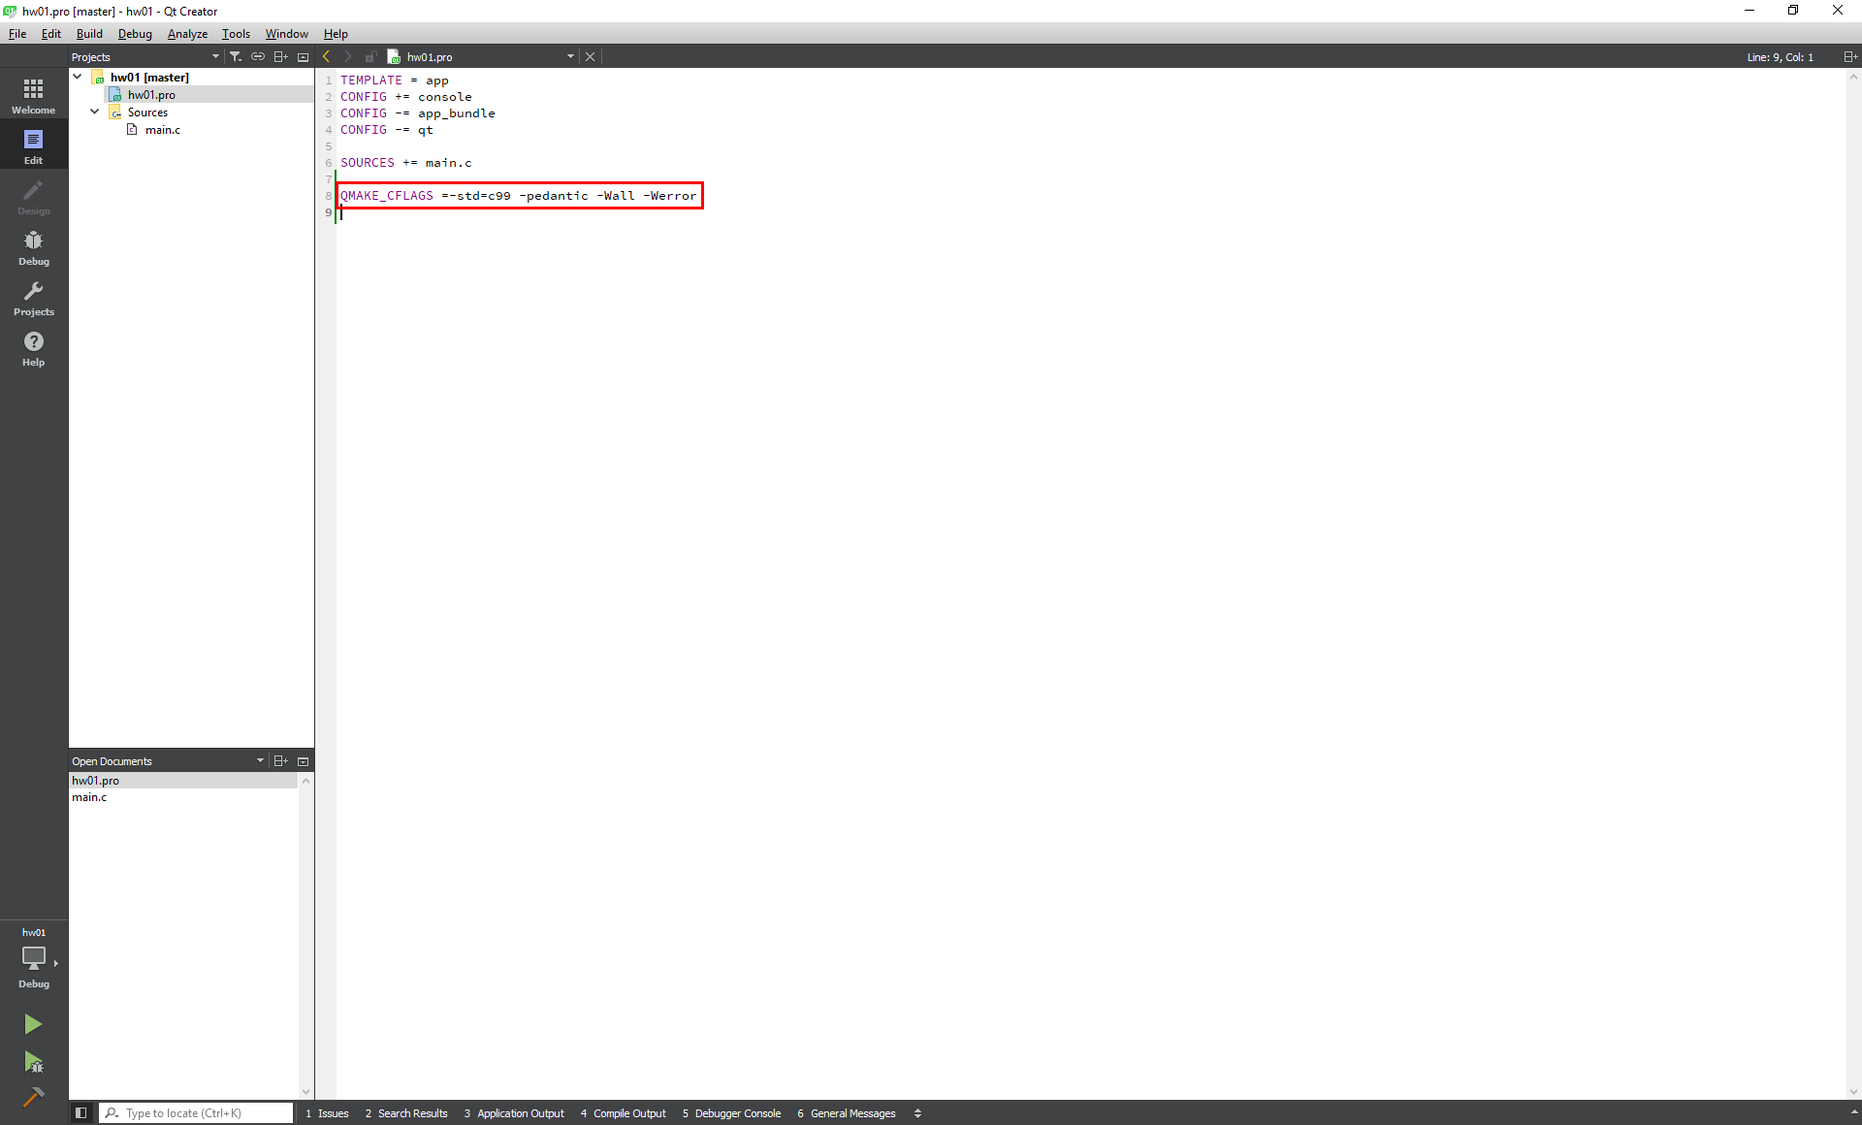
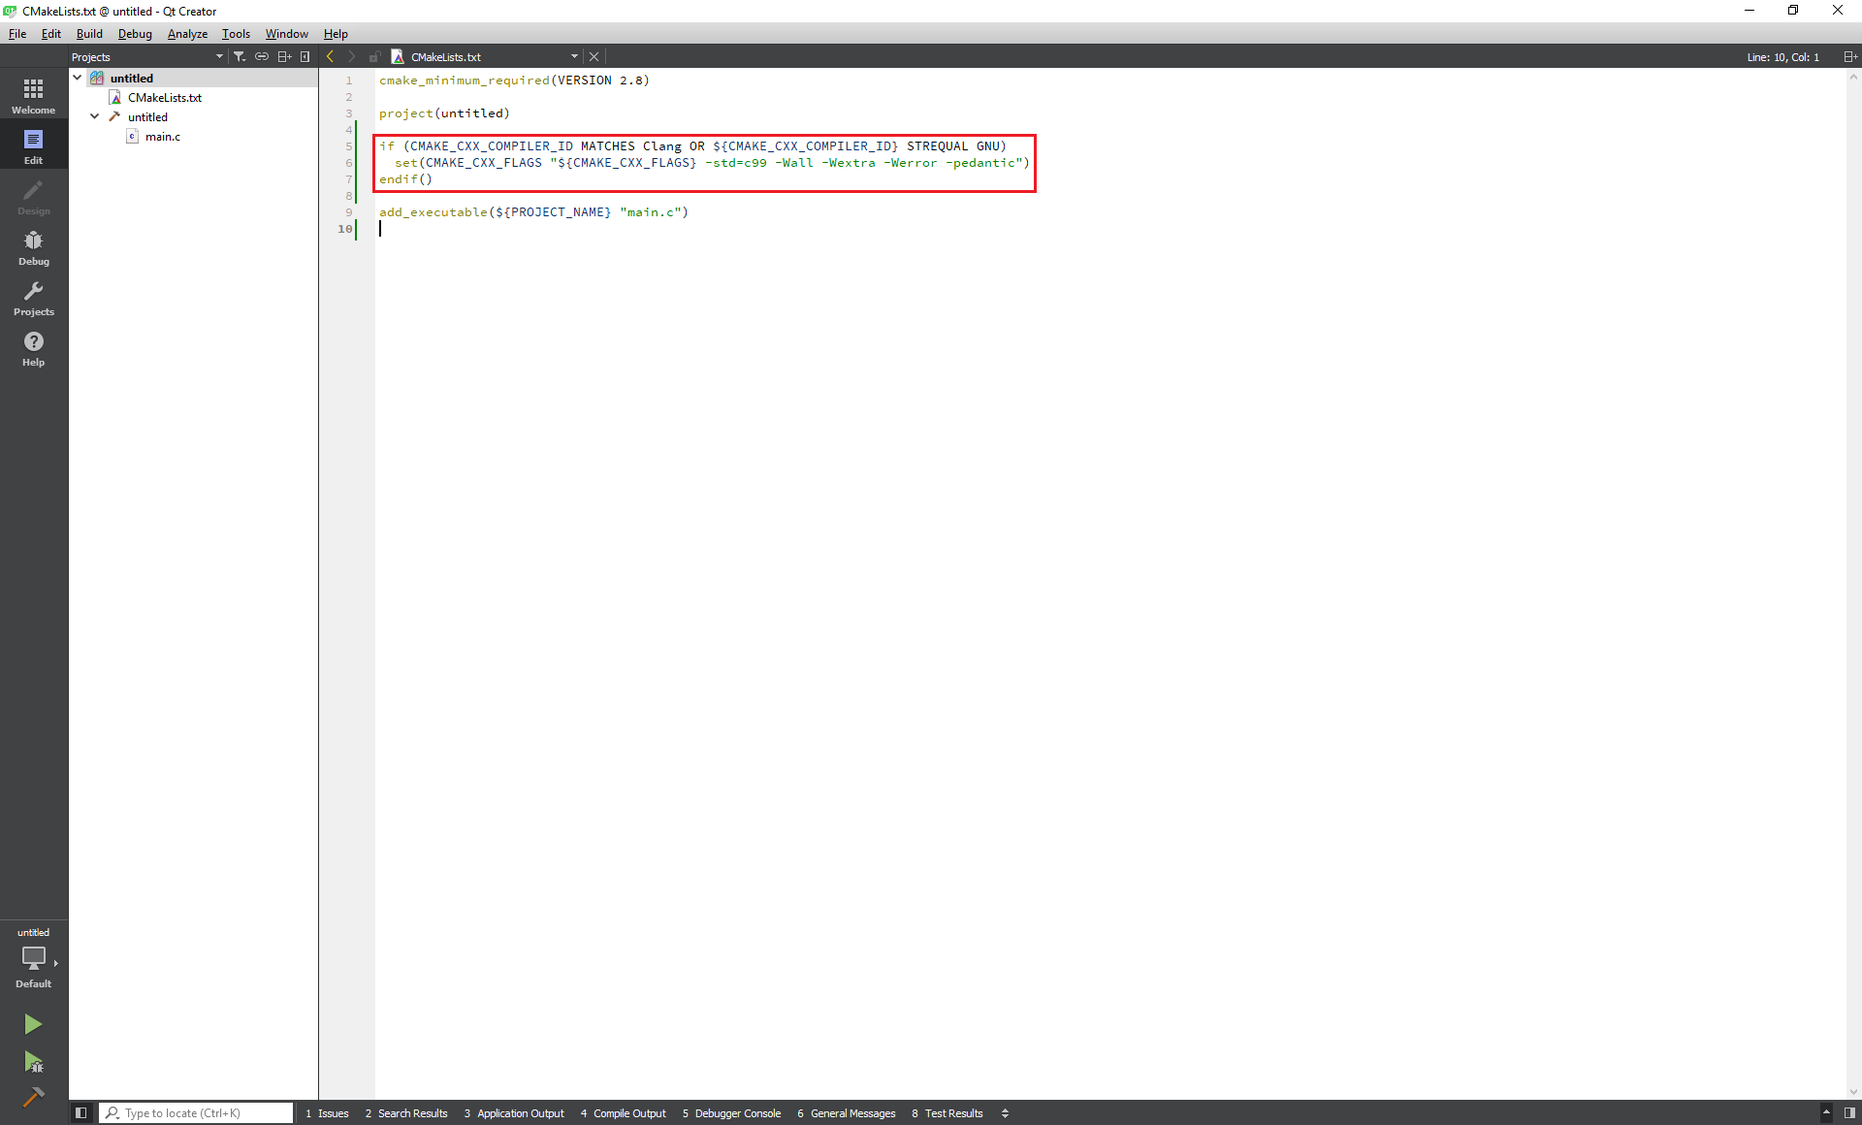
fix some bugs

diff --git a/index.md b/index.md
@@ -10,10 +10,10 @@ Tieto tutoriály slúžia na to, aby ste si vedeli nastaviť a používať vývo
 
 Pre Windows je hneď niekoľko vecí navyše. V prvom rade sa jedná o simuláciu linuxového prostredia. Linux je vo väčšine učební, používa ho väčšina cvičiacich a Kontr, nástroj na kontrolu úloh, beží takisto na linuxe. Z tohoto dôvodu je užitočné mať k dispozícii linuxový sýstém, ale aby ste si ho nemuseli inštalovať na svoj počítač a nemuseli behať na fakultu, ponúkame dve alternatívy:
 
-1. [Virtuálny stroj](/virtual-machine/README.md) - pripravený spustiteľný linux so všetkými nástrojmi. Stačí keď ho spustíte a nemusíte nič inštalovať
-2. [Ubuntu on Windows](/ubuntu-on-windows/README.md) - ak máte Windows 10 v 64 bitovej verzii, môžete aktivovať túto funkcionalitu, ktorá Vám dodá konzolovú verziu Ubuntu. Potom môžete postupovať v tutoriáloch linuxovou vetvou. Nevýhoda je, že máte k dispozícii len command line\(t.j žiadny Qt Creator a pod.\). Výhodou voči virtuálnemu stroju je omnoho vyššia rýchlosť a prístup k dátam Windowsu.
+1. [Virtuálny stroj](/virtual-machine/index.md) - pripravený spustiteľný linux so všetkými nástrojmi. Stačí keď ho spustíte a nemusíte nič inštalovať
+2. [Ubuntu on Windows](/ubuntu-on-windows/index.md) - ak máte Windows 10 v 64 bitovej verzii, môžete aktivovať túto funkcionalitu, ktorá Vám dodá konzolovú verziu Ubuntu. Potom môžete postupovať v tutoriáloch linuxovou vetvou. Nevýhoda je, že máte k dispozícii len command line\(t.j žiadny Qt Creator a pod.\). Výhodou voči virtuálnemu stroju je omnoho vyššia rýchlosť a prístup k dátam Windowsu.
 
-### [Visual Studio 2015](../visual-studio-2015/README.md)
+### [Visual Studio 2015](../visual-studio-2015/index.md)
 
 Pre tých, ktorí preferujú natívne vývojové prostredie na Windowse od Microsoftu, je pripravený tutoriál aj na Visual Studio. Popísane je, ako dosiahnuť rovnakú kontrolu kódom, akú robí Kontr. Pozor, musíte si však vytvárať vlastné projekty, nakoľko dodaný je len cmake!
 
@@ -23,7 +23,7 @@ Pre tých, ktorí preferujú natívne vývojové prostredie na Windowse od Micro
 
 Inštalačný systém, vďaka ktorému môžete ľahšie nainštalovať niekoľko vývojarských nástrojov.
 
-### [Xcode](/xcode/README.md)
+### [Xcode](/xcode/index.md)
 
 Pokiaľ nechcete používať Qt Creator, je k dispozícii návod na natívne vývojové prostredie pre macOS, vyvíjané Applom.
 
@@ -31,20 +31,20 @@ Pokiaľ nechcete používať Qt Creator, je k dispozícii návod na natívne vý
 
 ## Základné
 
-* [Git](git/README.md)
+* [Git](git/index.md)
   * [Inštalácia](git/installation.md)
     * [Windows](git/installation-windows.md)
     * [Linux](git/installation-linux.md)
     * [Mac OS X](git/installation-macosx.md)
   * [Začiatok semestra](git/beginning-of-semester.md)
   * [Úloha hello](git/hello.md)
-* [CMake](cmake/README.md)
+* [CMake](cmake/index.md)
   * [Inštalácia](cmake/installation.md)
     * [Windows](cmake/installation-windows.md)
     * [Linux](cmake/installation-linux.md)
     * [macOS](cmake/installation-macos.md)
   * [Použitie](cmake/use.md)
-* [Qt Creator](qt-creator/README.md)
+* [Qt Creator](qt-creator/index.md)
   * [Inštalácia](qt-creator/installation.md)
     * [Windows](qt-creator/installation-windows.md)
     * [Linux](qt-creator/installation-linux.md)
@@ -52,44 +52,44 @@ Pokiaľ nechcete používať Qt Creator, je k dispozícii návod na natívne vý
   * [Vytvorenie nového projektu](qt-creator/create.md)
   * [Kompilácia](qt-creator/compilation.md)
   * [Debugging](qt-creator/debug.md)
-* [Valgrind a Dr. Memory](memory-leaks/README.md)
+* [Valgrind a Dr. Memory](memory-leaks/index.md)
   * [Windows a Dr. Memory](memory-leaks/windows_drmemory.md)
   * [Linux a Valgrind](memory-leaks/linux_valgrind.md)
   * [macOS a Dr. Memory](memory-leaks/macos_drmemory.md)
   * [macOS a Valgrind](memory-leaks/mac-osx-valgrind.md)
   * [Valgrind - použitie](memory-leaks/valgrind-pouzitie.md)
-* [Doxygen](doxygen/README.md)
+* [Doxygen](doxygen/index.md)
   * [Inštalácia](doxygen/installation.md)
     * [Windows](doxygen/installation-windows.md)
     * [Linux](doxygen/installation-linux.md)
     * [macOS](doxygen/installation-mac.md)
   * [Písanie dokumentácie](doxygen/document.md)
   * [Generovanie dokumentácie](doxygen/generate.md)
-* [AISA a Kontr](ssh/README.md)
+* [AISA a Kontr](ssh/index.md)
   * [Windows](ssh/windows.md)
   * [Linux & macOS](ssh/linux.md)
 
 ## Doplňujúce
 
 * [Homebrew for macOS](qt-creator/homebrew-osx.md)
-* [Visual Studio 2015](visual-studio-2015/README.md)
+* [Visual Studio 2015](visual-studio-2015/index.md)
   * [Inštalácia](visual-studio-2015/installation.md)
   * [Vytvorenie nového projektu](visual-studio-2015/create.md)
   * [Spustenie projektu](visual-studio-2015/run.md)
   * [Debugging](visual-studio-2015/debugging.md)
   * [Git](visual-studio-2015/git.md)
   * [Dr. Memory](visual-studio-2015/dr.-memory.md)
-* [Xcode](xcode/README.md)
+* [Xcode](xcode/index.md)
   * [Inštalácia](xcode/installation.md)
   * [Spustenie projektu](xcode/run.md)
   * [Nastavenie kompilačných parametrov](xcode/compilation.md)
   * [Pridanie súborov do projektu](xcode/create.md)
   * [Vytvorenie projektu z cmake](xcode/vytvorenie-projektu-z-cmake.md)
-* [Ubuntu on Windows](ubuntu-on-windows/README.md)
+* [Ubuntu on Windows](ubuntu-on-windows/index.md)
   * [Inštalácia](ubuntu-on-windows/installation.md)
   * [Kompilačné nástroje](ubuntu-on-windows/kompilacne-nastroje.md)
   * [AISA](ubuntu-on-windows/aisa.md)
-* [Virtuálny stroj](virtual-machine/README.md)
+* [Virtuálny stroj](virtual-machine/index.md)
 
 
 

diff --git a/SUMMARY.md b/SUMMARY.md
@@ -2,24 +2,24 @@
 
 ## Návody PB071
 
-* [Úvod](README.md)
+* [Úvod](index.md)
 
 ## Základné
 
-* [Git](git/README.md)
+* [Git](git/index.md)
   * [Inštalácia](git/installation.md)
     * [Windows](git/installation-windows.md)
     * [Linux](git/installation-linux.md)
     * [macOS](git/installation-macosx.md)
   * [Začiatok semestra](git/beginning-of-semester.md)
   * [Úloha hello](git/hello.md)
-* [CMake](cmake/README.md)
+* [CMake](cmake/index.md)
   * [Inštalácia](cmake/installation.md)
     * [Windows](cmake/installation-windows.md)
     * [Linux](cmake/installation-linux.md)
     * [macOS](cmake/installation-macos.md)
   * [Použitie](cmake/use.md)
-* [Qt Creator](qt-creator/README.md)
+* [Qt Creator](qt-creator/index.md)
   * [Inštalácia](qt-creator/installation.md)
     * [Windows](qt-creator/installation-windows.md)
     * [Linux](qt-creator/installation-linux.md)
@@ -27,42 +27,42 @@
   * [Vytvorenie nového projektu](qt-creator/create.md)
   * [Kompilácia](qt-creator/compilation.md)
   * [Debugging](qt-creator/debug.md)
-* [Valgrind a Dr. Memory](memory-leaks/README.md)
+* [Valgrind a Dr. Memory](memory-leaks/index.md)
   * [Windows a Dr. Memory](memory-leaks/windows_drmemory.md)
   * [Linux a Valgrind](memory-leaks/linux_valgrind.md)
   * [macOS a Dr. Memory](memory-leaks/macos_drmemory.md)
   * [macOS a Valgrind](memory-leaks/mac-osx-valgrind.md)
   * [Valgrind - použitie](memory-leaks/valgrind-pouzitie.md)
-* [Doxygen](doxygen/README.md)
+* [Doxygen](doxygen/index.md)
   * [Inštalácia](doxygen/installation.md)
     * [Windows](doxygen/installation-windows.md)
     * [Linux](doxygen/installation-linux.md)
     * [macOS](doxygen/installation-mac.md)
   * [Písanie dokumentácie](doxygen/document.md)
   * [Generovanie dokumentácie](doxygen/generate.md)
-* [AISA a Kontr](ssh/README.md)
+* [AISA a Kontr](ssh/index.md)
   * [Windows](ssh/windows.md)
   * [Linux & macOS](ssh/linux.md)
 
 ## Doplňujúce
 
 * [Homebrew for macOS](qt-creator/homebrew-osx.md)
-* [Visual Studio 2017](visual-studio-2015/README.md)
+* [Visual Studio 2017](visual-studio-2015/index.md)
   * [Inštalácia](visual-studio-2015/installation.md)
   * [Otvorenie projektu](visual-studio-2015/create.md)
   * [Spustenie projektu](visual-studio-2015/run.md)
   * [Debugging](visual-studio-2015/debugging.md)
   * [Git](visual-studio-2015/git.md)
   * [Dr. Memory](visual-studio-2015/dr.-memory.md)
-* [Xcode](xcode/README.md)
+* [Xcode](xcode/index.md)
   * [Inštalácia](xcode/installation.md)
   * [Spustenie projektu](xcode/run.md)
   * [Nastavenie kompilačných parametrov](xcode/compilation.md)
   * [Pridanie súborov do projektu](xcode/create.md)
   * [Vytvorenie projektu z cmake](xcode/vytvorenie-projektu-z-cmake.md)
-* [Ubuntu on Windows](ubuntu-on-windows/README.md)
+* [Ubuntu on Windows](ubuntu-on-windows/index.md)
   * [Inštalácia](ubuntu-on-windows/installation.md)
   * [Kompilačné nástroje](ubuntu-on-windows/kompilacne-nastroje.md)
   * [AISA](ubuntu-on-windows/aisa.md)
-* [Virtuálny stroj](virtual-machine/README.md)
+* [Virtuálny stroj](virtual-machine/index.md)
 

diff --git a/qt-creator/installation-linux.md b/qt-creator/installation-linux.md
@@ -1,28 +1,28 @@
 # Inštalácia Qt na Linux {#intro}
 
-Inštalácia na Linuxe je závislá na konkrétnej distribúcii a kedže distribúcií je nespočetne mnoho, konkrétne postupy tu budú uvedené len pre najnovšie verzie najpopulárnejších linuxových distribúcií. Pokiaľ máte názvy balíkov pre svoju distribúciu a chcete ju zdieľať s ostatnými kolegiňami/kolegami, pridajte ju do komentárov a bude pridaná do tohoto návodu.
+Inštalácia na Linuxe je závislá na konkrétnej distribúcii a kedže distribúcií je nespočetne mnoho, konkrétne postupy tu budú uvedené len pre najnovšie verzie najpopulárnejších linuxových distribúcií. Pokiaľ máte názvy balíkov pre svoju distribúciu a chcete ju zdieľať s ostatnými kolegiňami/kolegami, pridajte ju do fóra a bude pridaná do tohoto návodu.
 
 # Ukážkové distribúcie {#distributions}
 
 V tejto časti sú uvedené príkazy inštalujúce všetky potrebné nástroje pre jednotlivé distribúcie.
 
-## Ubuntu 16.10
+## Ubuntu 16.04 - 17.10
 
 ```
-sudo apt install make gcc g++ gdb qt5-default qtcreator
+sudo apt install make gcc g++ gdb qt5-default qtcreator cmake
 ```
 
 ## Fedora 25
 
 ```
-sudo dnf install make gcc g++ gdb qt5*-devel qt-creator
+sudo dnf install make gcc g++ gdb qt5*-devel qt-creator cmake
 ```
 
 # Všeobecný postup - inštalátor {#installer}
 
 V prípade, že nepoužívate žiadnu z vyššie uvedených distribúcií, je priložený aj všeobecný návod pre každú distribúciu.
 
-Základne balíky **make, gcc, gdb** na kompiláciu musíte nainštalovať z balíčkovacieho správcu Vašej distribúcie - väčšinou sa tieto balíky volajú presne podľa názvov programov.
+Základne balíky **make, gcc, gdb, CMake** na kompiláciu musíte nainštalovať z balíčkovacieho správcu Vašej distribúcie - väčšinou sa tieto balíky volajú presne podľa názvov programov.
 
 **Qt Creator** je možné nainštalovať pomocou inštalátora:
 
@@ -43,7 +43,7 @@ Základne balíky **make, gcc, gdb** na kompiláciu musíte nainštalovať z bal
   
   ![](../images/qt-creator/linux_install_01.png)
   
-5. Z komponentov potrebujete Qt 5.8 → **Desktop gcc 64-bit/32-bit**
+5. Z komponentov potrebujete Qt 5.10.1 → **Desktop gcc 64-bit/32-bit**
   
   ![](../images/qt-creator/linux_install_03.png)
 

diff --git a/qt-creator/index.md b/qt-creator/index.md
@@ -1,6 +1,6 @@
 # Qt Creator {#intro}
 
-Qt Creator je jednoduché prívetivé IDE vhodné pre ľudí začínajúcich s C/C++. Z tohoto dôvodu bolo zvolené ako odporúčané v tomto predmete. Pokiaľ ste nikdy neprogramovali v C a/alebo máte málo skúseností s používaním IDE programov, je pre Vás vysoko odporúčané používať Qt Creator podľa tohto tutoriálu. V prípade, že máte už skúsenosti alebo chcete radšej používať IDE špecifické pre Vašu platformu, začnite tutoriálom pre [Visual Studio 2017](../visual-studio-2015/README.md) na platforme Windows alebo [Xcode](../xcode/README.md) pre macOS.
+Qt Creator je jednoduché prívetivé IDE vhodné pre ľudí začínajúcich s C/C++. Z tohoto dôvodu bolo zvolené ako odporúčané v tomto predmete. Pokiaľ ste nikdy neprogramovali v C a/alebo máte málo skúseností s používaním IDE programov, je pre Vás vysoko odporúčané používať Qt Creator podľa tohto tutoriálu. V prípade, že máte už skúsenosti alebo chcete radšej používať IDE špecifické pre Vašu platformu, začnite tutoriálom pre [Visual Studio 2017](../visual-studio-2015/index.md) na platforme Windows alebo [Xcode](../xcode/index.md) pre macOS.
 
 Rozcestník:
 
@@ -8,6 +8,7 @@ Rozcestník:
   * [Windows](../qt-creator/installation-windows.md)
   * [Linux](../qt-creator/installation-linux.md)
   * [macOS](../qt-creator/installation-macosx.md)
+* [Import projektu](../qt-creator/import.md)
 * [Vytvorenie nového projektu](../qt-creator/create.md)
 * [Kompilácia projektu](../qt-creator/compilation.md)
 * [Debugging projektu](../qt-creator/debug.md)

diff --git a/git/baisics.md b/git/baisics.md
@@ -91,11 +91,11 @@ git clone "https://gitlab.fi.muni.cz/kde/repozitar.git"
 # s SSH klíčem
 git clone "git@gitlab.fi.muni.cz:kde/repozitar.git"
 ```
-Tím vznikne adresář repozitar. Zkuste v něm vytvořit soubor README.md:
+Tím vznikne adresář repozitar. Zkuste v něm vytvořit soubor index.md:
 
 ```
 cd repozitar
-cat > README.md &lt;&lt;EOL
+cat > index.md &lt;&lt;EOL
 # Readme k projektu
 
 Tento soubor může používat **formátování** pomocí _Markdown_.
@@ -105,11 +105,11 @@ EOF
 Nový nebo změněný soubor připravte ke commitu, udělejte commit a pak push.
 
 ```
-git add README.md
+git add index.md
 git commit -m "ZPRAVA"      # pokud chybí -m "ZPRAVA", otevře se editor
 git push
 ```
-Na GitLabu obnovte stránku, měli byste vidět soubor README.md a jeho obsah zobrazen pod popisem projektu. Zkuste jej nyní změnit: Files → README.md → Edit (vpravo). Přidejte libovolný text a klikněte na Commit Changes. Pak se vraťte na hlavní stránku projektu (levý panel Project) a uvidíte změněné README.md.
+Na GitLabu obnovte stránku, měli byste vidět soubor index.md a jeho obsah zobrazen pod popisem projektu. Zkuste jej nyní změnit: Files → index.md → Edit (vpravo). Přidejte libovolný text a klikněte na Commit Changes. Pak se vraťte na hlavní stránku projektu (levý panel Project) a uvidíte změněné index.md.
 
 Upravenou verzi souboru stáhnete do svého repozitáře příkazem git pull.
 

diff --git a/qt-creator/import.md b/qt-creator/import.md
@@ -1,0 +1,34 @@
+# Import projektu {#intro}
+
+1. Vyberte v menu **File → Open File or Project** alebo **Open Project** v úvodnej obrazovke:
+  ![](../images/qt-creator/import_01.png)
+
+2. Zvoľte **CMakeLists.txt** projektu.
+
+3. Ak ste postupovali správne podľa návodov, budete mat minimálne kit s gcc(MinGW pre Windows). Zvoľte gcc/MinGW kit a pokračujte s **Configure Project**.
+  ![](../images/qt-creator/import_02.png)
+  
+## Pridávanie nových súborov {#add-file}
+
+1. Pre pridanie nového súboru do projektu zvoľte v menu **File → New File or Project**:
+
+  ![](../images/qt-creator/new_file.png)
+  
+2. Z templatov vyberte **C++ → C++ Source/Header** - source pre zdrojový .c súbor a header pre hlavičkový .h súbor:
+
+  ![](../images/qt-creator/newfile_02.png)
+
+3. Pomenujte svoj súbor a umiestnite ho tam, kde sa nachádza Váš projekt(kde máte CMakeLists.txt):
+
+  ![](../images/qt-creator/newfile_03.png)
+
+4. Zvoľte projekt, do ktorého má byť pridaný. Ak ste na začiatku už zvolili projekt, tak bude prednastavený. Môžete tiež rovno tento súbor pridať do git repozitára. Qt Creator potom vykoná príkaz *git add vas_subor*.
+
+  ![](../images/qt-creator/newfile_04.png)
+
+
+# Kam ďalej {#next}
+
+Pokračujte:
+- [skompilovaním projektu](../qt-creator/compilation.md)
+- [debuggovaním](../qt-creator/debug.md)

diff --git a/qt-creator/create.md b/qt-creator/create.md
@@ -20,16 +20,16 @@
 
   ![](../images/qt-creator/create_05.png)
   
-6. Voľbu *Add to version control* vynechajte, zbytočne iba vytvorí _.gitignore_ pre daný projekt - to je však zbytočné, ak už jeden máte v repozitári.
+6. Voľbu *Add to version control*, ktorá vytvorí _.gitignore_, vynechajte. Tento súbor Vám dodávame v každom repozitári.
 
   ![](../images/qt-creator/create_06.png)
 
-7. Do konfiguračného súboru projektu(CMakeLists.txt) pridajte nastavenia pre kompilátory:
+7. Do konfiguračného súboru projektu(CMakeLists.txt) pridajte za deklaráciu project() nastavenia pre kompilátory:
    * Pre C99 (PB071)
    ```
-    if (CMAKE_CXX_COMPILER_ID MATCHES Clang OR ${CMAKE_CXX_COMPILER_ID} STREQUAL GNU)
-    set(CMAKE_CXX_FLAGS "${CMAKE_CXX_FLAGS} -std=c99 -Wall -Wextra -Werror -pedantic")
-    endif(CMAKE_CXX_COMPILER_ID MATCHES Clang OR ${CMAKE_CXX_COMPILER_ID} STREQUAL GNU)
+   if (CMAKE_CXX_COMPILER_ID MATCHES Clang OR ${CMAKE_CXX_COMPILER_ID} STREQUAL GNU)
+     set(CMAKE_CXX_FLAGS "${CMAKE_CXX_FLAGS} -std=c99 -Wall -Wextra -Werror -pedantic")
+   endif()
    ```
    * Pre C++14 (PB161)
    ```

diff --git a/qt-creator/debug.md b/qt-creator/debug.md
@@ -39,6 +39,6 @@ Zobrazuje zoznam funkcií, ktoré boli zavolané aby sa program dostal do zastav
 # Kam ďalej {#next}
 
 Ak ste sa dostali až sem, tak ste prešli všetky potrebné tutoriály na vývoj. Ďalej by ste mali pokračovať:
-- hľadaním a odchytávaním chýb spojených s pamäťou pomocou nástroja [Valgrind alebo Dr. Memory](/memory-leaks/README.md),
-- dokumentovaním kódu pomocou nástroja [Doxygen](/doxygen/README.md),
-- odovzdaním úlohy na [AISE](/ssh/README.md).
+- hľadaním a odchytávaním chýb spojených s pamäťou pomocou nástroja [Valgrind alebo Dr. Memory](/memory-leaks/index.md),
+- dokumentovaním kódu pomocou nástroja [Doxygen](/doxygen/index.md),
+- odovzdaním úlohy na [AISE](/ssh/index.md).

diff --git a/cmake/use.md b/cmake/use.md
@@ -4,7 +4,7 @@ V PB071 sa odporúča používať Qt Creator, kde typicky len otvoríte dodaný 
 
 ## Qt Creator
 
-Pokračujte návodom na [Qt Creator](../qt-creator/README.md).
+Pokračujte návodom na [Qt Creator](../qt-creator/index.md).
 
 ## Command line
 
@@ -44,4 +44,4 @@ vo Visual Studio.
 
 # Kam ďalej
 
-Pokračujte návodom na [Qt Creator](../qt-creator/README.md), alebo ak ste zvládli kompiláciu cez command line a nechcete používať IDE, preskočte na [Valgrind a Dr. Memory](../memory-leaks/README.md).
+Pokračujte návodom na [Qt Creator](../qt-creator/index.md), alebo ak ste zvládli kompiláciu cez command line a nechcete používať IDE, preskočte na [Valgrind a Dr. Memory](../memory-leaks/index.md).

diff --git a/qt-creator/installation-next.md b/qt-creator/installation-next.md
@@ -1,3 +1,3 @@
 # Kam ďalej {#next}
 
-Po nainštalovaní môžete otvárať súbory, s príponopu **.pro**, definujúce projekt. Tieto projektové súbory sú dodané pre úlohy na cvičenia. Pre vlastné úlohy si projekty musíte vytvárať sami. Pokračujte v návode [vytvorením projektu](../qt-creator/create.md).
+Po nainštalovaní nástrojov Qt Creator a CMake môžete otvárať projekty definované súbormi **CMakeLists.txt**. Tieto projektové súbory sú dodané pre úlohy na cvičenia. Pre vlastné úlohy si projekty musíte vytvárať sami. Pokračujte v návode [importovaním projektu](../qt-creator/import.md).

diff --git a/qt-creator/installation-windows.md b/qt-creator/installation-windows.md
@@ -10,8 +10,10 @@ preskočiť. V prípade, že sa rozhodnete túto možnosť využiť, účet Vám
 
 2. Z komponentov na výber potrebujete:
   - Qt → Qt 5.9.1 → **MinGW 5.3.0 32 bit**
-  - Qt → Qt 5.9.1 → **msvc2017 64-bit**
   - Tools → **MinGW 5.3.0**
+
+3. Ak chcete aj podporu oficiálneho Microsoft kompilátora MSVC, môžete pridať aj nasledujúce komponenty:
+  - Qt → Qt 5.9.1 → **msvc2017 64-bit**
   - Tools → **Qt Creator 4.4.0 CDB Debugger support**
      
     ![](../assets/2017-09-14.png)

diff --git a/memory-leaks/next.md b/memory-leaks/next.md
@@ -1,3 +1,3 @@
 # Kam ďalej
 
-Po vytvorení programu a odchytení všetkých chýb, je žiadúce aby ste daný kód aj zdokumentovali. Pokračujte tutoriálom na [dokumentovací nástroj Doxygen](../doxygen/README.md).
+Po vytvorení programu a odchytení všetkých chýb, je žiadúce aby ste daný kód aj zdokumentovali. Pokračujte tutoriálom na [dokumentovací nástroj Doxygen](../doxygen/index.md).
